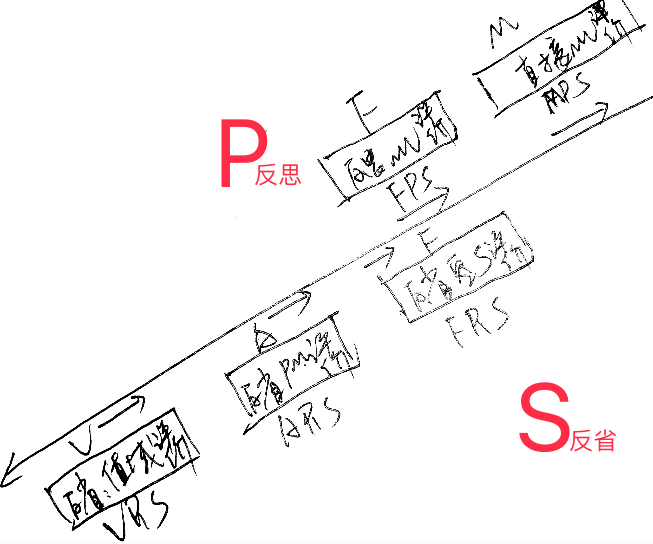
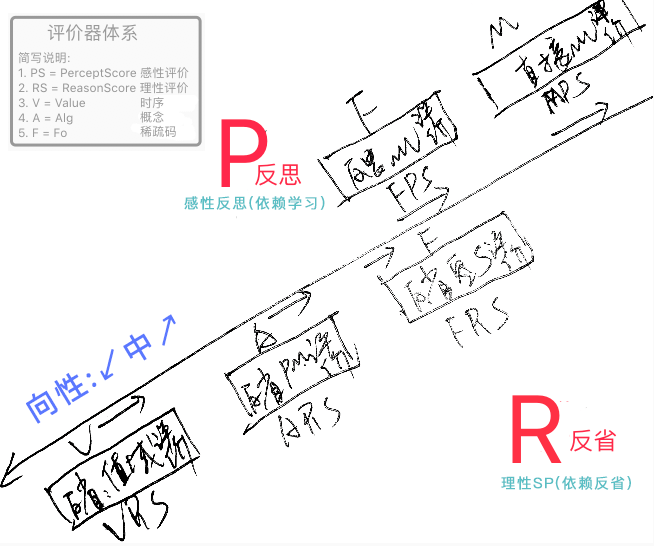
none

diff --git a/手写笔记/Note22.md b/手写笔记/Note22.md
@@ -21,8 +21,7 @@
 
 | 22011 | 评价器体系整理 |
 | --- | --- |
-| 评价器 | ![](assets/400_评价器体系示图.png) |
-|  | ![](assets/401_评价器体系修正图.png) |
+| 评价器 | ![](assets/401_评价器体系修正图.png) |
 | 说明 | 如图: 当前的评价体系较为完善,但代码比较混乱,不像类比器代码的那么条理; |
 | 说明 | 感性评价以mv和fo为主,理性评价以alg和value为主; |
 | 代码 | 考虑写个AIScore类,将所有评价器整理进来; |
